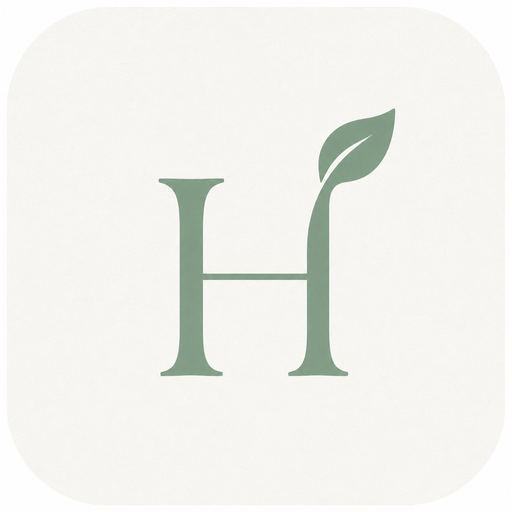
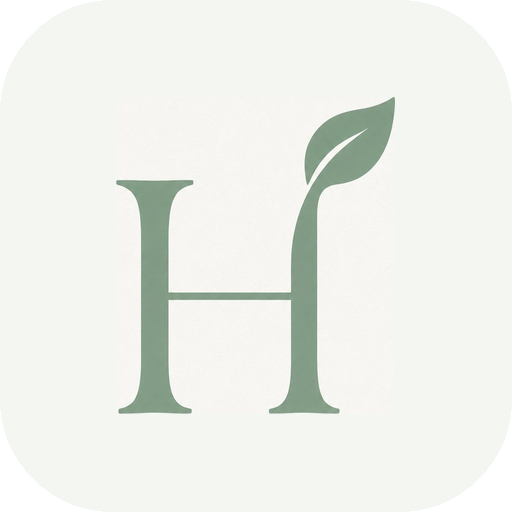
Add files via upload

Changed region(s): [[0.2188, 0.1875, 0.7812, 0.8125], [0.7188, 0.3125, 0.75, 0.3438]]

diff --git a/styles.css b/styles.css
@@ -1250,3 +1250,20 @@ input, .serv-input, .field-input, .mrow-input, .pcell-input, .sheet-search {
   border-radius: 14px !important;
 }
 .planner-top-row { margin-bottom: 8px; }
+
+/* ═══════════════════════════════════════════════════
+   HÉBÉ — points colorés par catégorie de repas
+═══════════════════════════════════════════════════ */
+.slot-label.slot-lunch::before  { background: #6BA292; }  /* déjeuner — vert */
+.slot-label.slot-dinner::before { background: #C98B6B; }  /* dîner — terracotta */
+.slot-label.slot-sides::before  { background: #D9A865; }  /* accompagnements — ambre */
+.slot-label.slot-sweet::before  { background: #B08BB0; }  /* dessert — mauve doux */
+
+/* Search sheet : input toujours stable + visible */
+.sheet-search-wrap { padding: 4px 16px 10px; }
+.sheet-search {
+  width: 100%; padding: 12px 16px; border-radius: var(--radius-s);
+  background: var(--s2) !important; border: 1px solid var(--border) !important;
+  color: var(--text) !important; font-size: 15px; font-family: 'Outfit', sans-serif;
+}
+.sheet-search:focus { border-color: var(--sage) !important; }

diff --git a/sw.js b/sw.js
@@ -1,4 +1,4 @@
-const CACHE = 'hebe-v4';
+const CACHE = 'hebe-v6';
 const ASSETS = [
   './',
   './index.html',